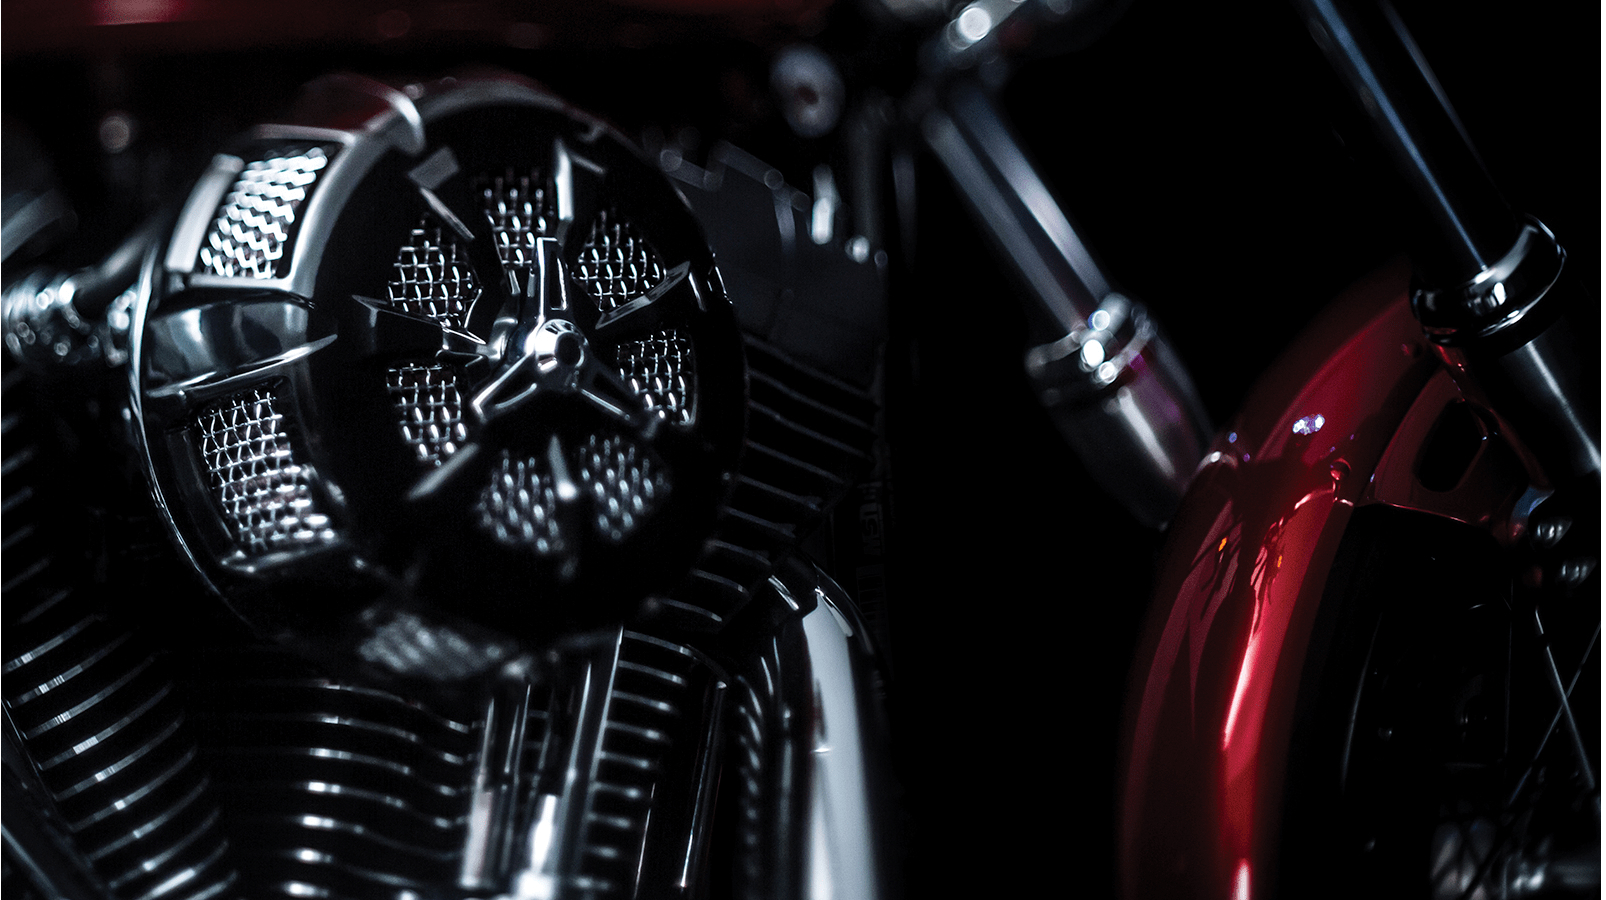
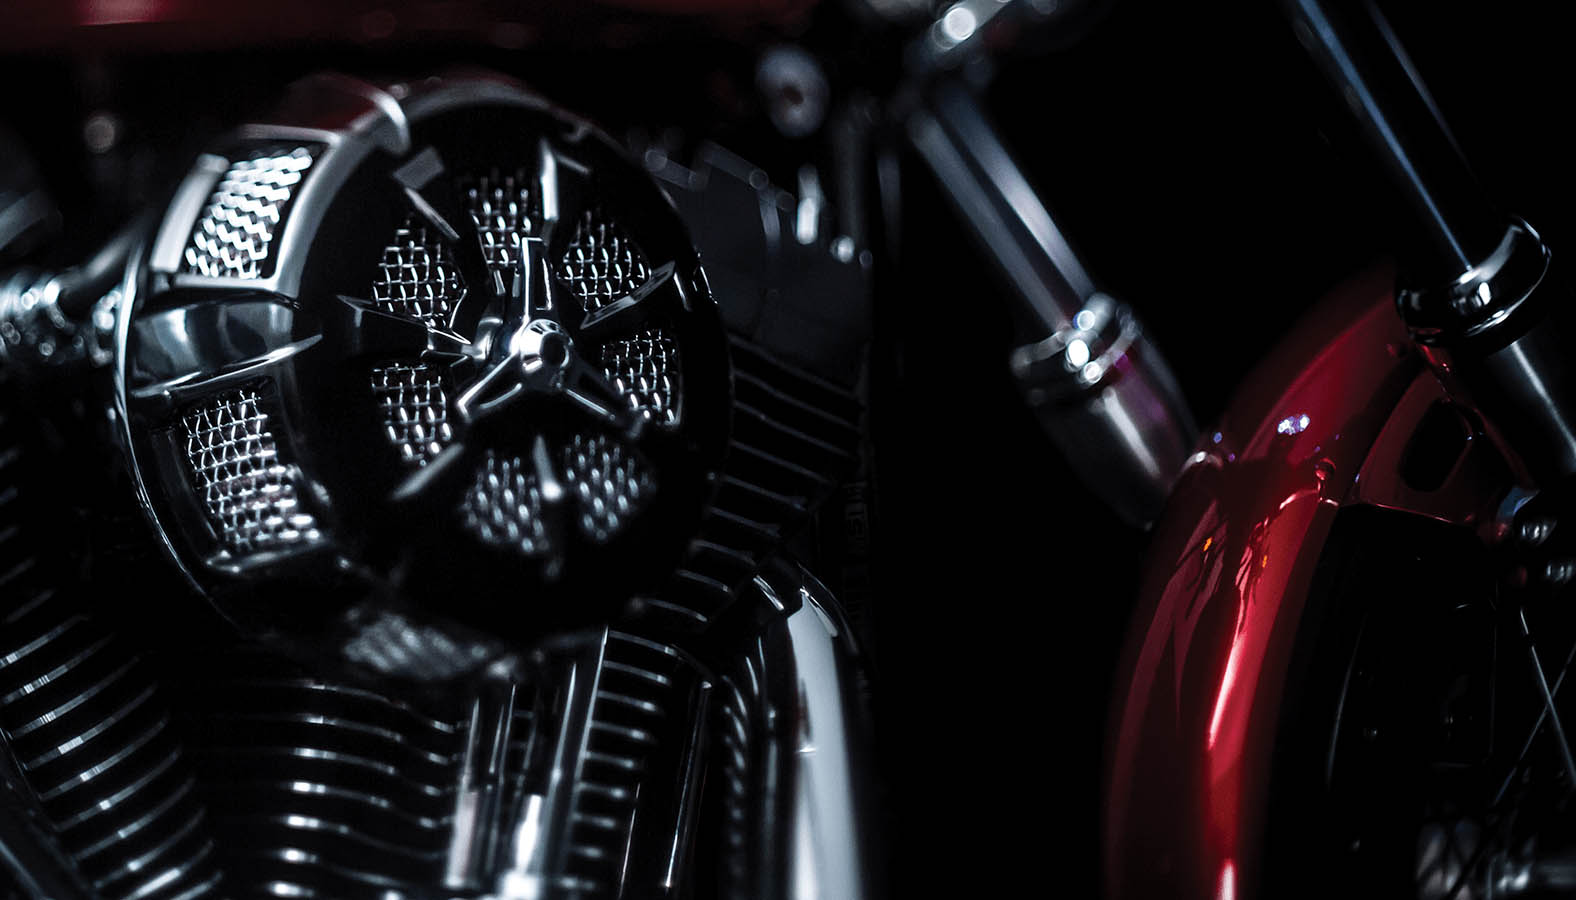
small fixes

diff --git a/src/component/aboutUs/AboutUs.jsx b/src/component/aboutUs/AboutUs.jsx
@@ -1,20 +1,25 @@
 import './aboutUs.css';
-import React , { useState, useEffect } from 'react'
+import React, { useState, useEffect } from 'react';
 
 function AboutUs() {
-  const [smallScreen, setSmallScreen] = useState(window.innerWidth < 770 ? "2" : '');
+  const [backgroundImgSrc, setBackgroundImgSrc] = useState('');
+
   useEffect(() => {
     const handleResize = () => {
-      setSmallScreen(window.innerWidth < 770 ? 1 : '');
+      setBackgroundImgSrc(window.innerWidth < 770 ? "../../backgroundbike.jpg" : "../../backgroundbike2.jpg");
     };
+
+    // Initialize the image source
+    handleResize();
 
     window.addEventListener('resize', handleResize);
     // Clean up function
     return () => window.removeEventListener('resize', handleResize);
   }, []);
+
   return (
     <div className="aboutUs--body">
-      <img src={`../../backgroundbike${smallScreen}.jpg`} alt="Background Bike" />
+      <img src={backgroundImgSrc} alt="Background Bike" />
       <div className='aboutUs--container'>
         <div className='aboutUs--half aboutUs--half--first'>
           <div className='aboutUs--half__title'>עלינו</div>

diff --git a/src/component/navbar/navbar.css b/src/component/navbar/navbar.css
@@ -15,7 +15,7 @@
 .navbar--container {
     width: 60%;
     display: flex;
-    justify-content: space-around;
+    justify-content: space-between;
     align-items: center;
     font-size: 1.6rem;
     font-weight: bolder;
@@ -25,10 +25,16 @@
     cursor: pointer;
     padding: 10px;
 }
+.navbar--logo {
+    display: flex;
+    justify-content: center;
+    align-items: center;
+}
 .navbar--logo > img {
     width: 9vh;
     height: 9vh;
     cursor: pointer;
+    margin:0;
 }
 .navbar--body.scrolled {
     position: fixed;
@@ -89,6 +95,7 @@
         display: flex;
         justify-content: center;
         top:45%;
+        left:0;;
     }
 }
 

diff --git a/src/component/EachImage/eachImage.css b/src/component/EachImage/eachImage.css
@@ -7,7 +7,7 @@ body {
 .EachImage--body {
   position: relative;
   width: 100%;
-  min-height: 100vh;
+  min-height: calc(var(--vh, 1vh) * 100);  /* Use the --vh variable here */
   display: flex;
   align-items: center;
   flex-direction: column;
